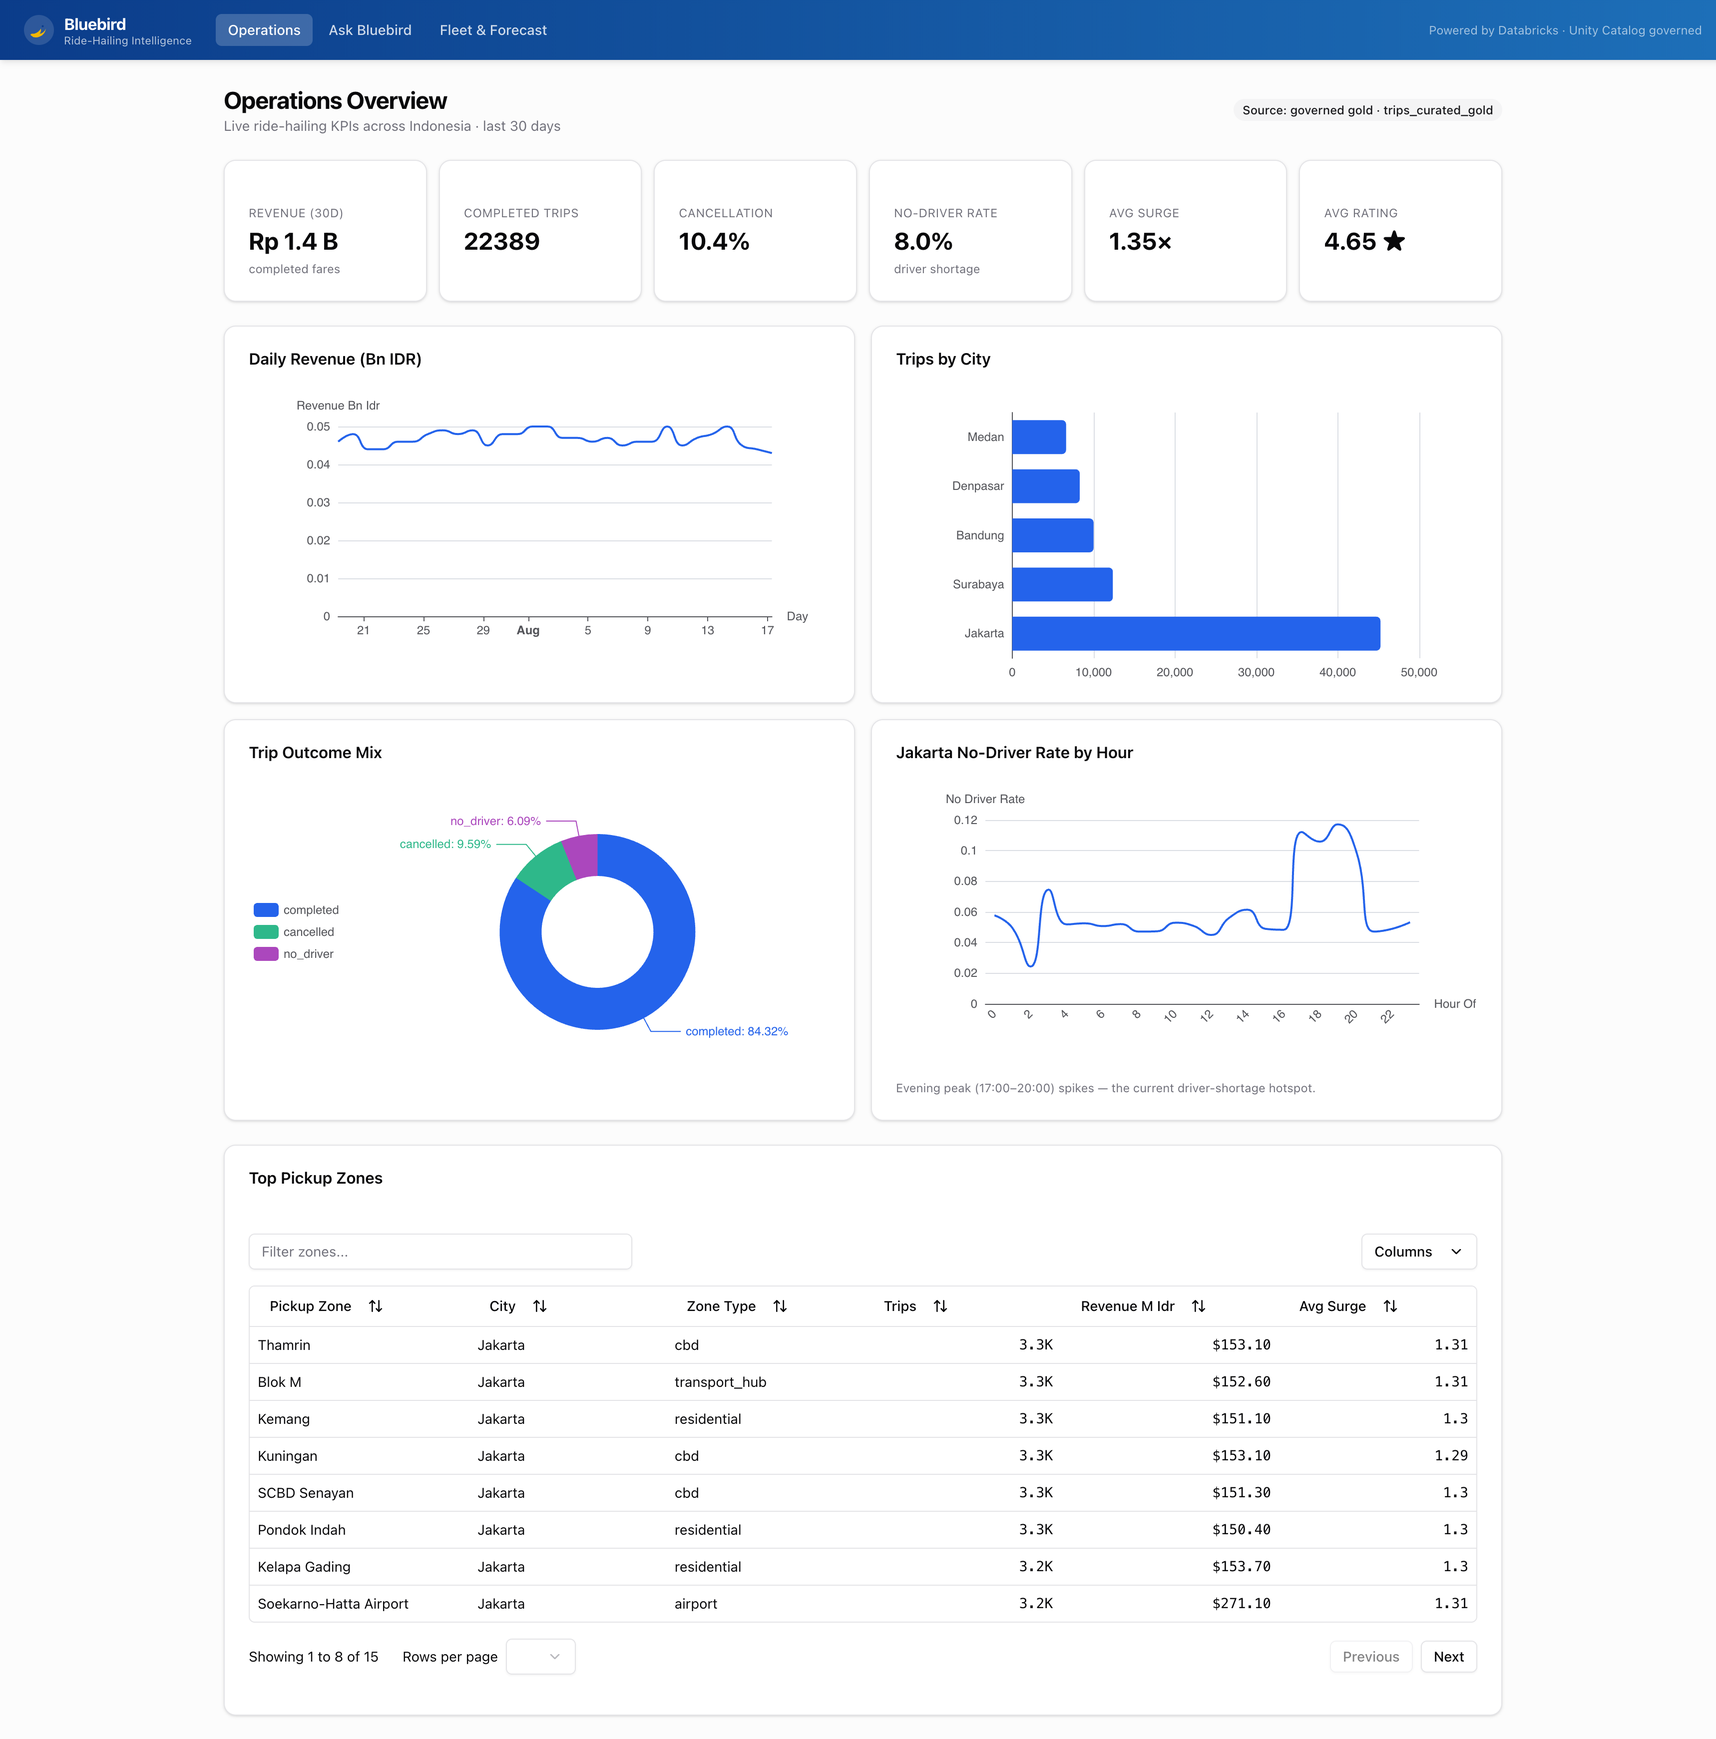
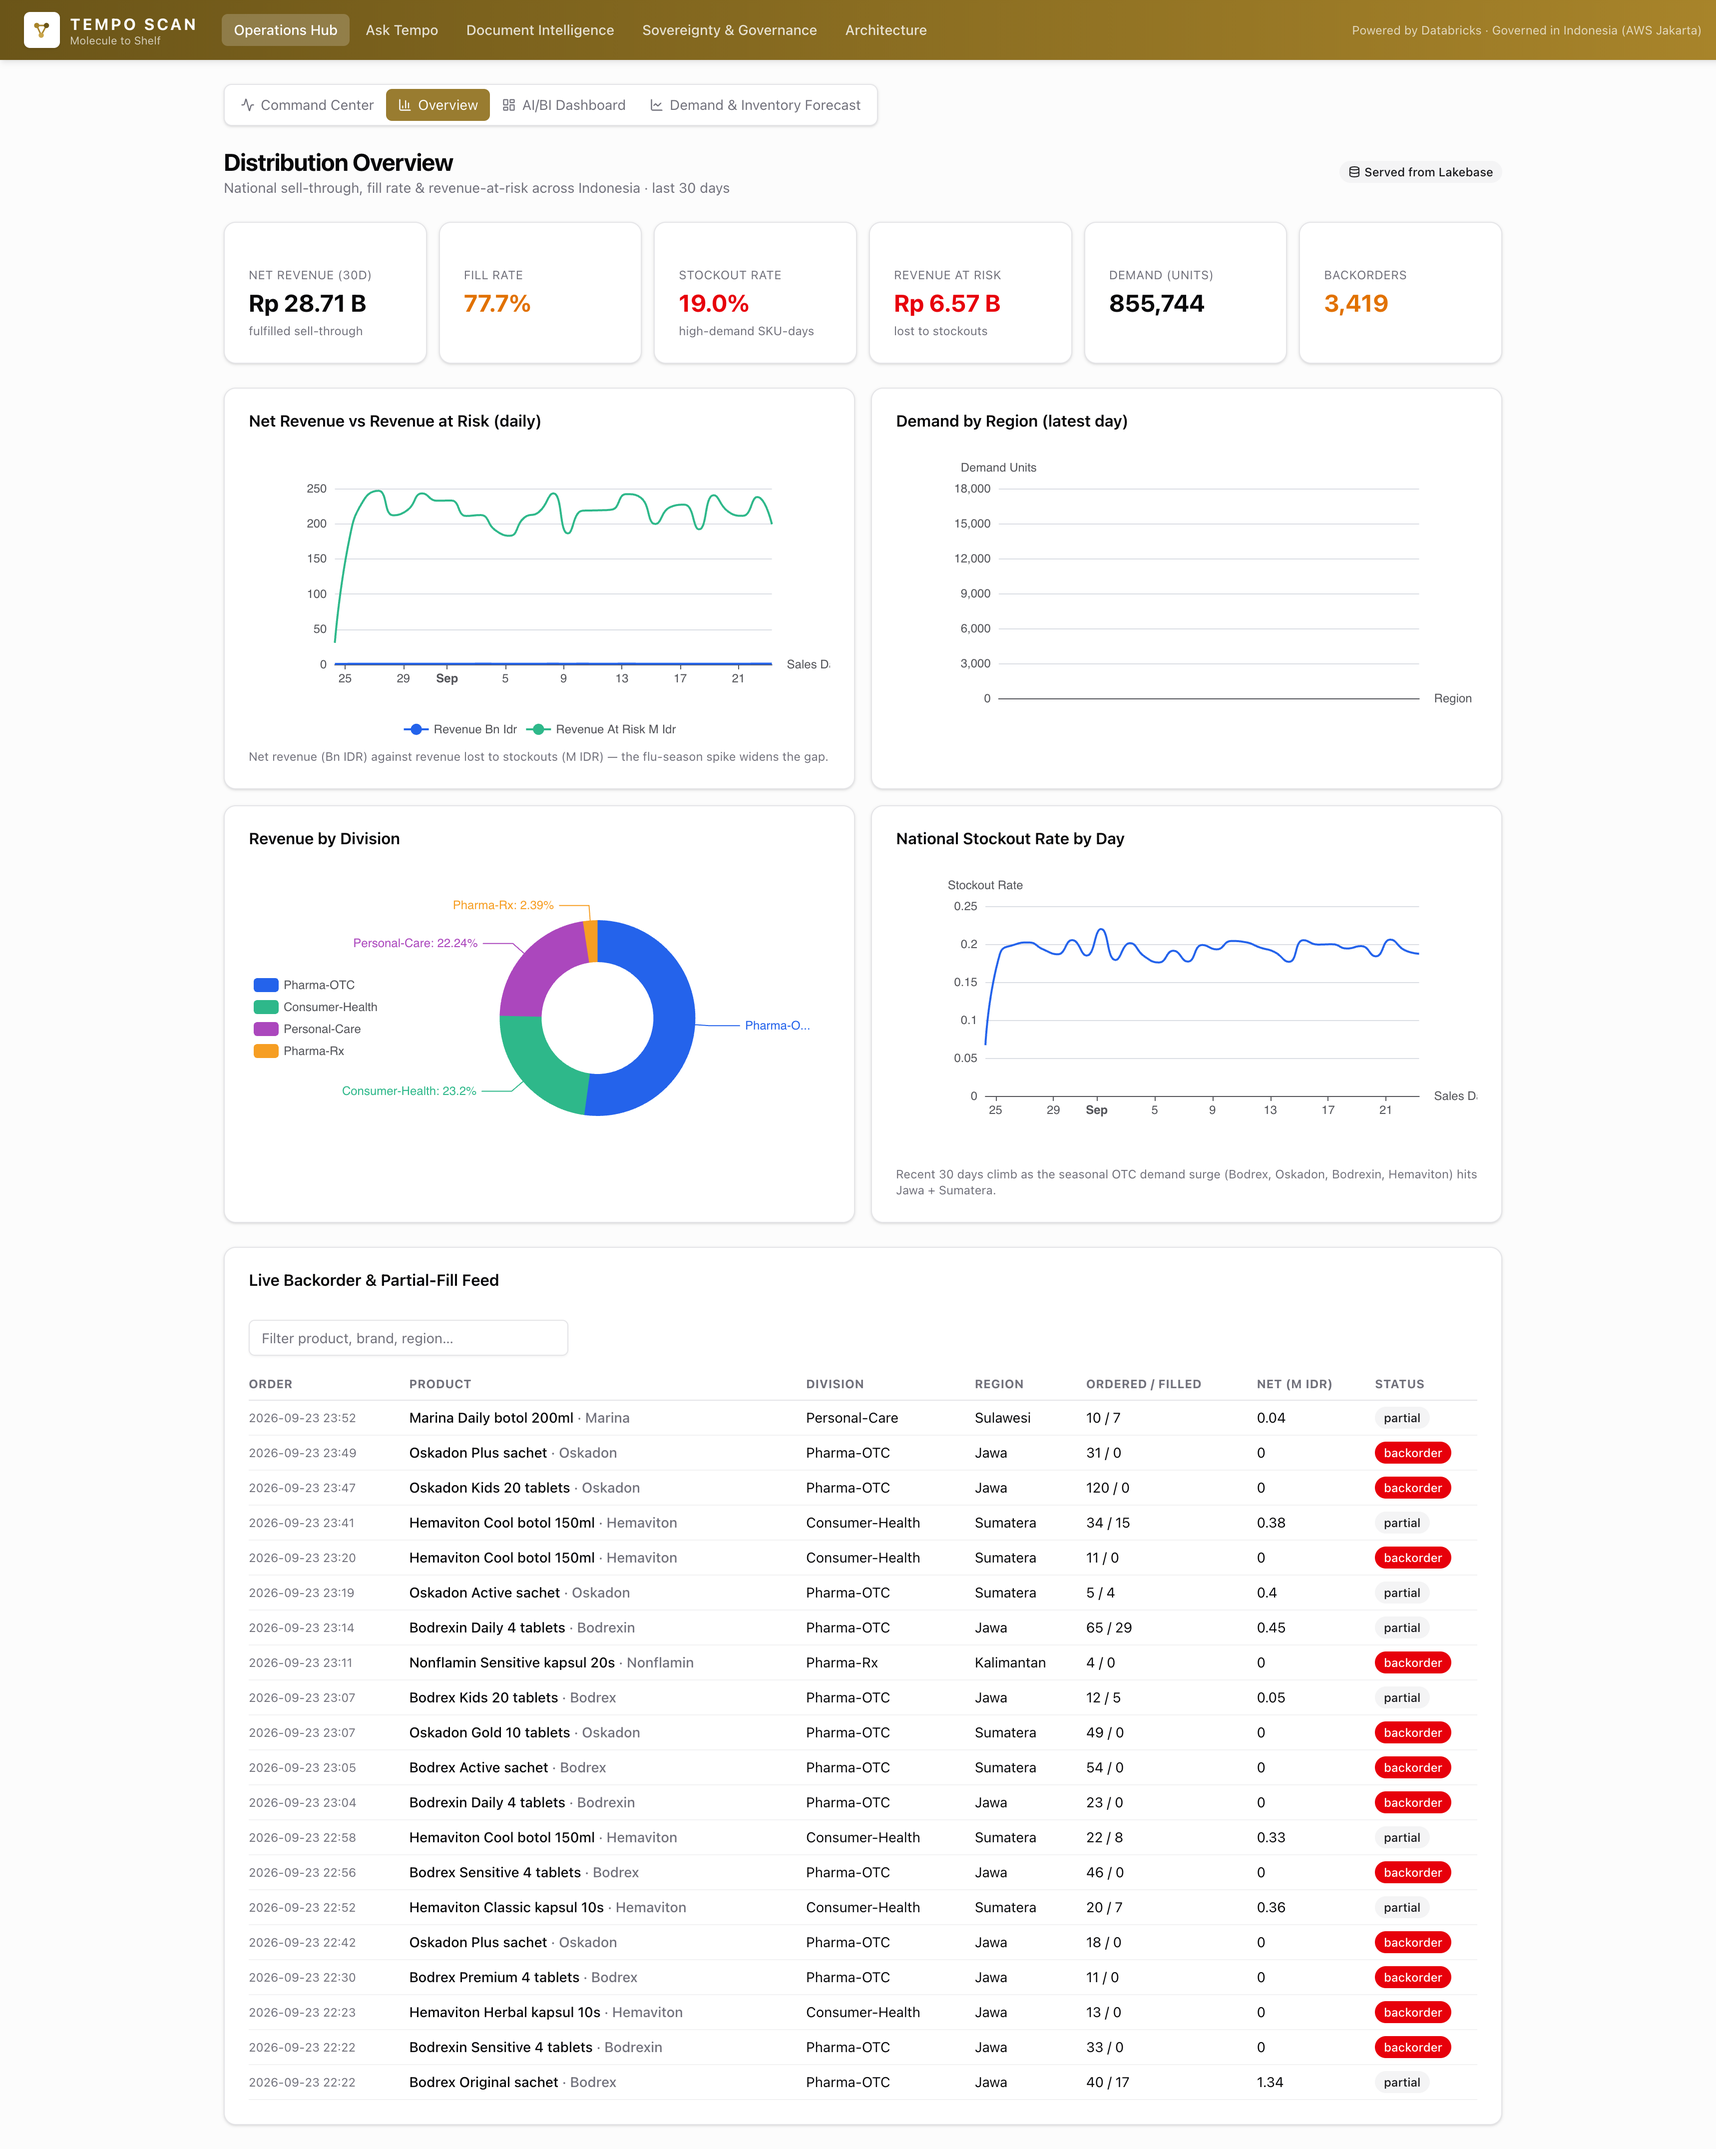
Fix demand-by-region chart (bigint->int) + graceful what-if heuristic
- Overview 'Demand by Region' was empty: Postgres bigint serializes as a JSON
  string, which the BarChart yKey can't plot. Cast demand_units to int.
- Forecast what-if hit 404 (serving endpoint removed for metastore quota); replace
  with a transparent, clearly-labeled on-device heuristic estimate.

diff --git a/client/src/pages/serving/ForecastPage.tsx b/client/src/pages/serving/ForecastPage.tsx
@@ -1,5 +1,4 @@
 import {
-  useServingInvoke,
   LineChart,
   BarChart,
   Card,
@@ -47,18 +46,6 @@ const FEATURES = [
   { key: 'shelf_life_days', label: 'Shelf Life (days)', def: 180, risk: (v: number) => (v <= 120 ? 2 : v <= 270 ? 1 : 0) },
 ] as const;
 
-function extractRisk(data: unknown): number | null {
-  const preds = (data as { predictions?: unknown })?.predictions;
-  if (!Array.isArray(preds) || preds.length === 0) return null;
-  const first: unknown = preds[0];
-  if (typeof first === 'number') return first;
-  if (first && typeof first === 'object' && 'expiry_risk_score' in first) {
-    const v = (first as { expiry_risk_score: unknown }).expiry_risk_score;
-    return typeof v === 'number' ? v : Number(v);
-  }
-  return null;
-}
-
 function severity(risk: number) {
   if (risk >= 0.85) return { label: 'Critical', bar: 'bg-red-600', text: 'text-red-600' };
   if (risk >= 0.6) return { label: 'High', bar: 'bg-orange-500', text: 'text-orange-600' };
@@ -73,14 +60,22 @@ function WhatIf() {
   const [vals, setVals] = useState<Record<string, number>>(
     Object.fromEntries(FEATURES.map((f) => [f.key, f.def])),
   );
-  const { invoke, loading, error } = useServingInvoke({});
   const [risk, setRisk] = useState<number | null>(null);
+  const [loading, setLoading] = useState(false);
 
+  // The served model endpoint is unavailable on this workspace (the UC metastore is
+  // at its registered-model quota), so we score with a transparent on-device heuristic
+  // over the same features. Clearly labeled below so it's never mistaken for the model.
   function run() {
-    void invoke({ dataframe_records: [vals] }).then((res) => {
-      const r = extractRisk(res);
-      if (r !== null) setRisk(r);
-    });
+    setLoading(true);
+    const levels = FEATURES.map((f) => f.risk(vals[f.key]));
+    const score = levels.reduce((a, b) => a + b, 0) / (2 * FEATURES.length);
+    // gentle non-linearity so mid inputs read as moderate, extremes as critical
+    const r = Math.max(0, Math.min(1, Math.pow(score, 0.85)));
+    window.setTimeout(() => {
+      setRisk(r);
+      setLoading(false);
+    }, 250);
   }
 
   const sev = risk !== null ? severity(risk) : null;
@@ -93,8 +88,11 @@ function WhatIf() {
       </CardHeader>
       <CardContent className="space-y-5">
         <p className="text-xs text-muted-foreground">
-          Scores a single SKU×DC inventory reading against the served model (endpoint{' '}
-          <code>tempo-demand-forecast</code>) — returns the probability the batch trends to expiry write-off.
+          Scores a single SKU×DC inventory reading for the probability the batch trends to expiry
+          write-off. <span className="text-amber-600">On-device heuristic estimate</span> — the served
+          model endpoint (<code>tempo-demand-forecast</code>) is not deployed on this workspace (its Unity
+          Catalog metastore is at the registered-model quota); the trained model + <code>gold_product_risk</code>
+          scores still power the worklist above.
         </p>
 
         <div className="grid grid-cols-2 md:grid-cols-3 gap-3">
@@ -114,7 +112,6 @@ function WhatIf() {
         </div>
 
         <Button onClick={run} disabled={loading}>{loading ? 'Scoring…' : 'Predict expiry risk'}</Button>
-        {error && <div className="text-destructive text-sm">Error: {error}</div>}
 
         {risk !== null && sev && (
           <div className="rounded-lg border bg-muted/30 p-4 space-y-3">

diff --git a/server/server.ts b/server/server.ts
@@ -125,7 +125,7 @@ createApp({
         SELECT to_char(sales_date, 'YYYY-MM-DD')                      AS sales_date,
                ROUND((net_idr/1e9)::numeric, 3)::float8               AS revenue_bn_idr,
                ROUND((revenue_at_risk_idr/1e6)::numeric, 1)::float8   AS revenue_at_risk_m_idr,
-               demand_units::bigint                                   AS demand_units,
+               demand_units::int                                      AS demand_units,
                ROUND(fill_rate::numeric, 4)::float8                   AS fill_rate,
                ROUND(stockout_rate::numeric, 4)::float8               AS stockout_rate,
                backorder_count::int                                   AS backorder_count
@@ -143,7 +143,7 @@ createApp({
         )
         SELECT g.region,
                to_char(g.sales_date, 'YYYY-MM-DD')                    AS sales_date,
-               g.demand_units::bigint                                 AS demand_units,
+               g.demand_units::int                                    AS demand_units,
                ROUND(g.fill_rate::numeric, 4)::float8                 AS fill_rate,
                ROUND(g.stockout_rate::numeric, 4)::float8             AS stockout_rate,
                ROUND((g.revenue_at_risk_idr/1e6)::numeric, 1)::float8 AS revenue_at_risk_m_idr,
@@ -156,7 +156,7 @@ createApp({
       lbGet('/api/lakebase/region-trend', `
         SELECT region,
                to_char(sales_date, 'YYYY-MM-DD') AS sales_date,
-               demand_units::bigint              AS demand_units
+               demand_units::int                 AS demand_units
         FROM public.gold_region_daily
         WHERE sales_date >= (SELECT MAX(sales_date) - INTERVAL '30 days' FROM public.gold_region_daily)
         ORDER BY region, sales_date`);

diff --git a/lakebase/load_postgres_direct.py b/lakebase/load_postgres_direct.py
@@ -31,6 +31,13 @@ _SPARK_TO_PG = {
 }
 
 
+def _pg_type(spark_type: str) -> str:
+    """Map a Spark simpleString dtype to a Postgres type (handles decimal(p,s))."""
+    if spark_type.startswith("decimal"):
+        return "numeric" + spark_type[len("decimal"):]  # decimal(15,4) -> numeric(15,4)
+    return _SPARK_TO_PG.get(spark_type, "text")
+
+
 def _db(*args):
     return subprocess.check_output(["databricks", *args, "-p", PROFILE, "-o", "json"]).decode()
 
@@ -50,7 +57,7 @@ def main():
     spark = get_spark()
     for tbl in SERVING_TABLES:
         df = spark.table(fq(tbl))
-        cols = [(f.name, _SPARK_TO_PG.get(f.dataType.simpleString(), "text")) for f in df.schema.fields]
+        cols = [(f.name, _pg_type(f.dataType.simpleString())) for f in df.schema.fields]
         ddl_cols = ", ".join(f'"{n}" {t}' for n, t in cols)
         pdf = df.toPandas()
         fd, path = tempfile.mkstemp(suffix=".csv")
